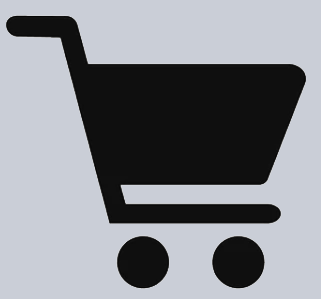
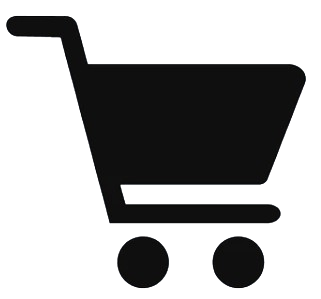
Se quitó el fondo de las imágenes

diff --git a/src/components/CartWidget/CartWidget.jsx b/src/components/CartWidget/CartWidget.jsx
@@ -3,7 +3,7 @@ import './CartWidget.css';
 
 const CartWidget = () => {
     return (
-        <button className='btn-cart btn btn-success'>
+        <button className='btn-cart btn btn-outline-light'>
             <img src={cartImage} className='cartImg'/>
             0
         </button>

diff --git a/src/components/CartWidget/CartWidget.css b/src/components/CartWidget/CartWidget.css
@@ -3,7 +3,7 @@
 }
 
 .cartImg {
-    width: 50px;
-    height: 50px
+    width: 40px;
+    height: 40px
 }
 
